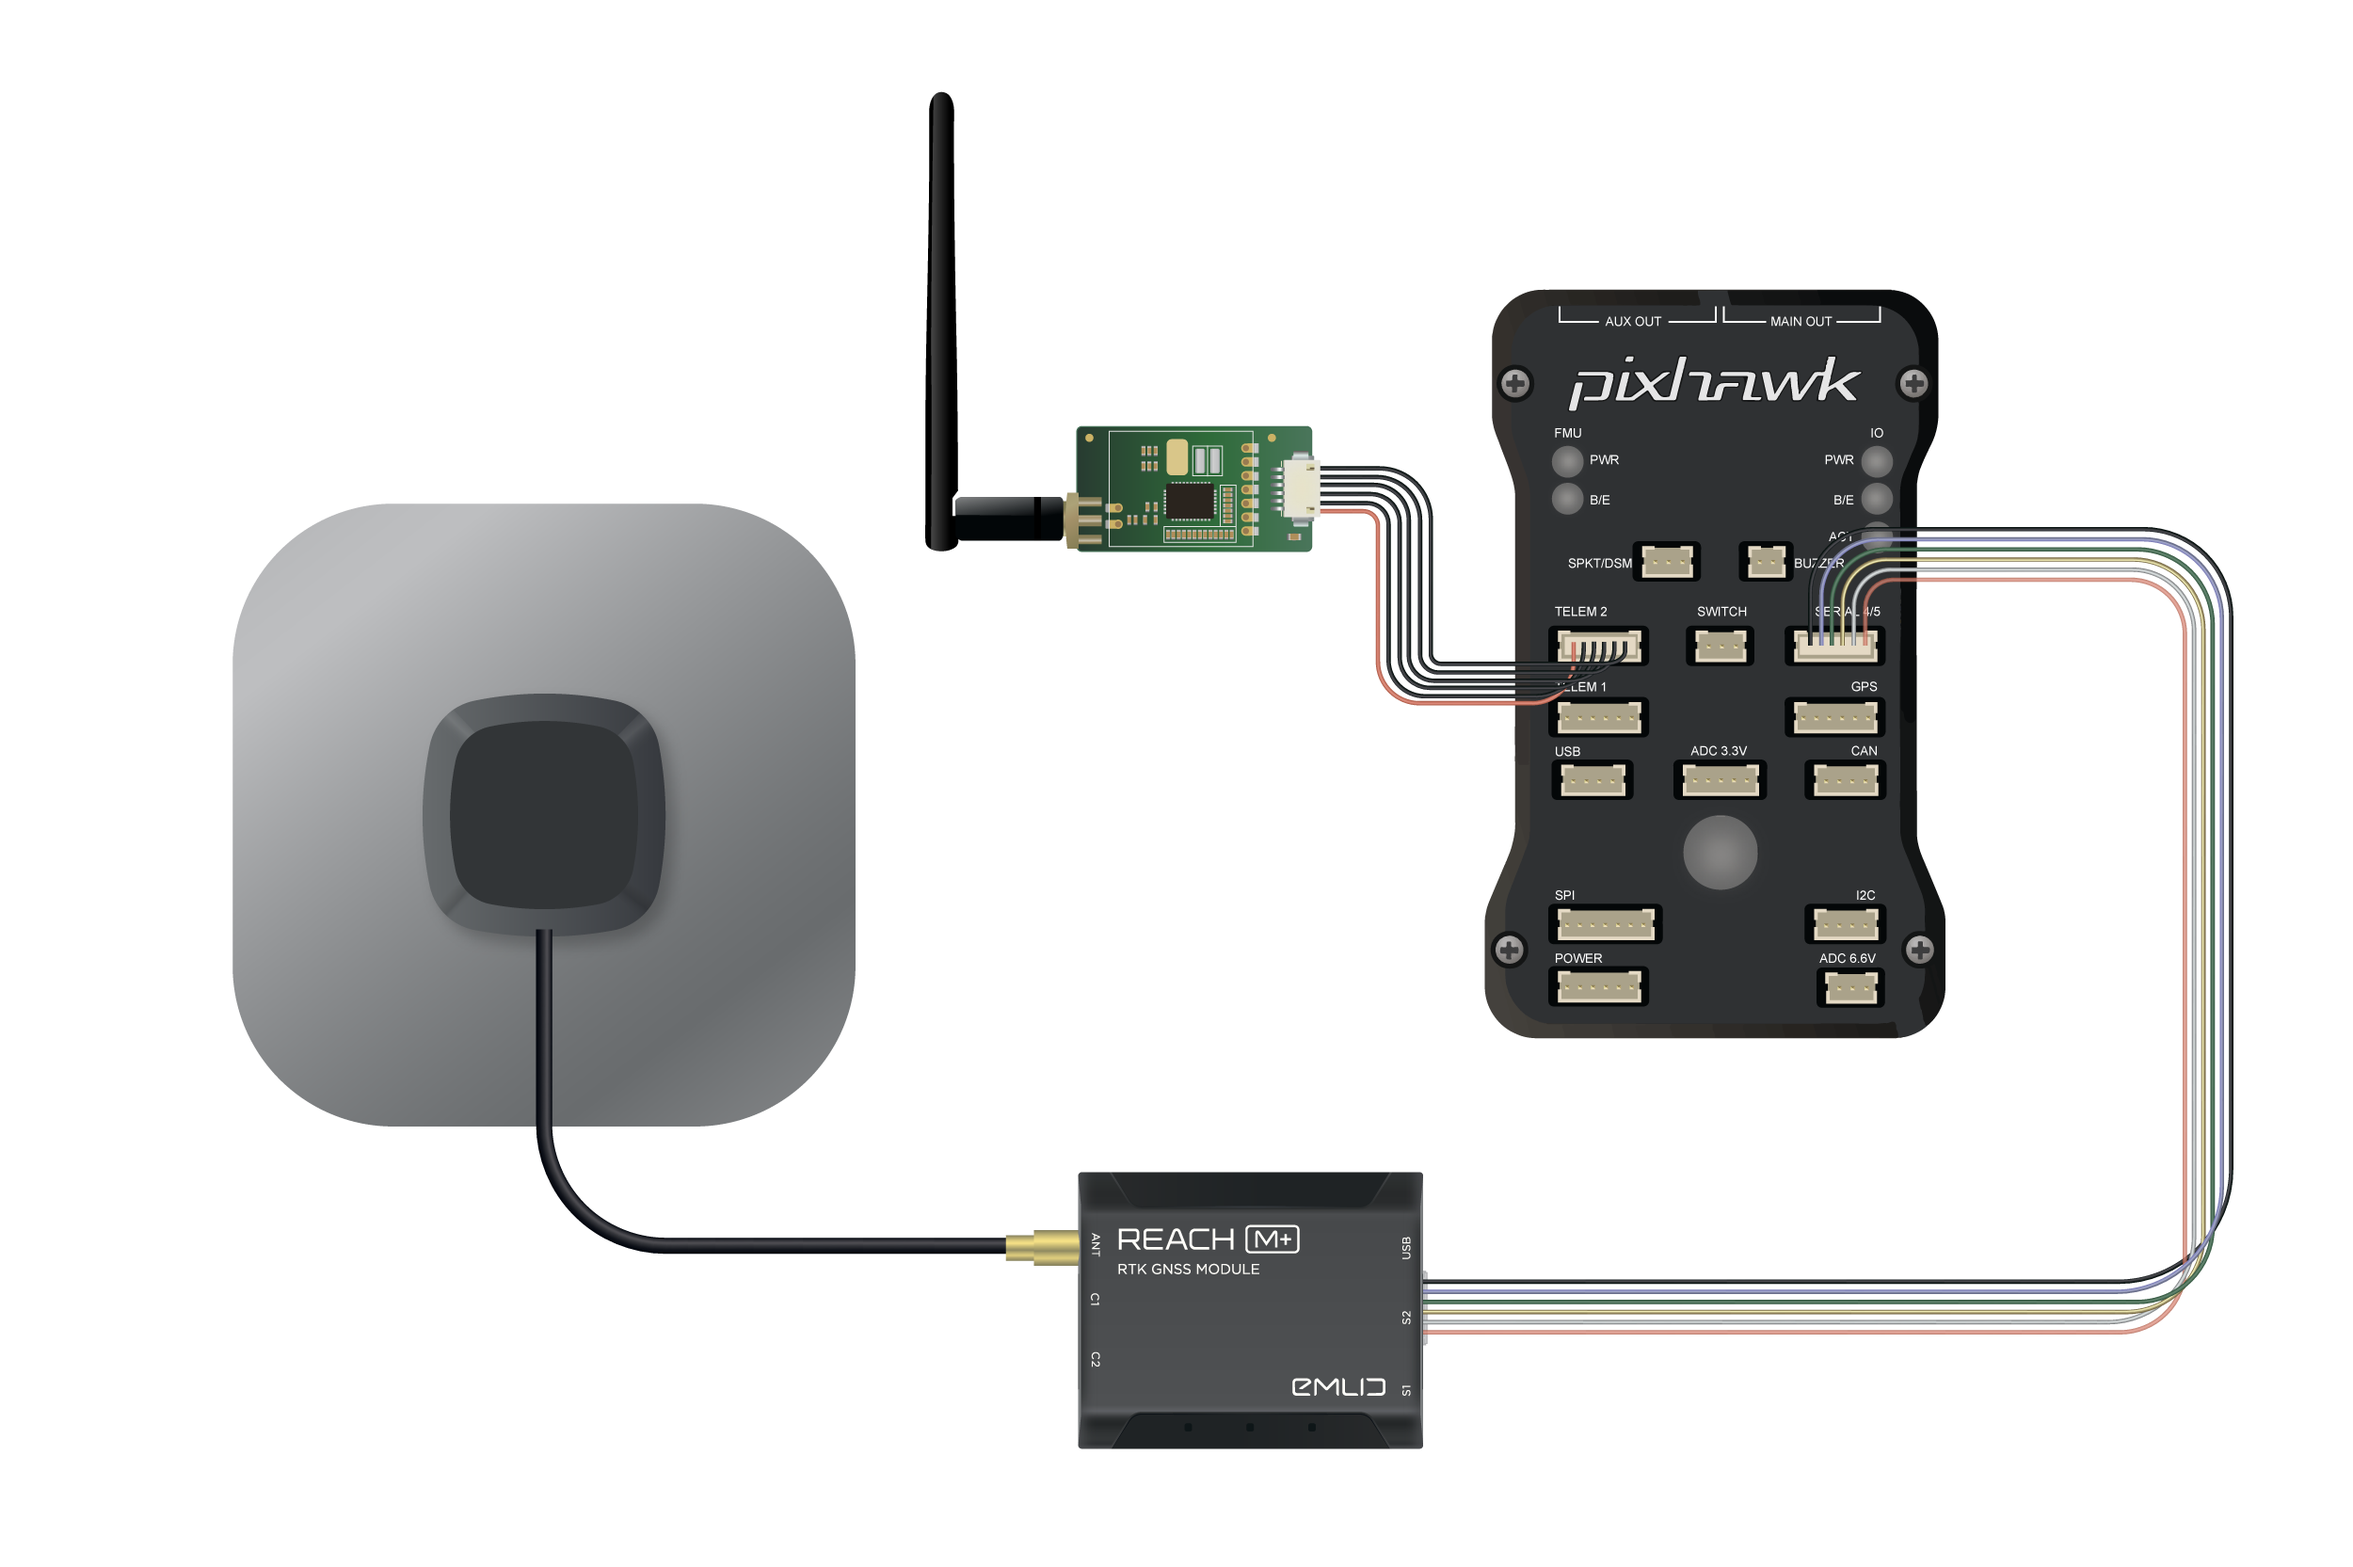
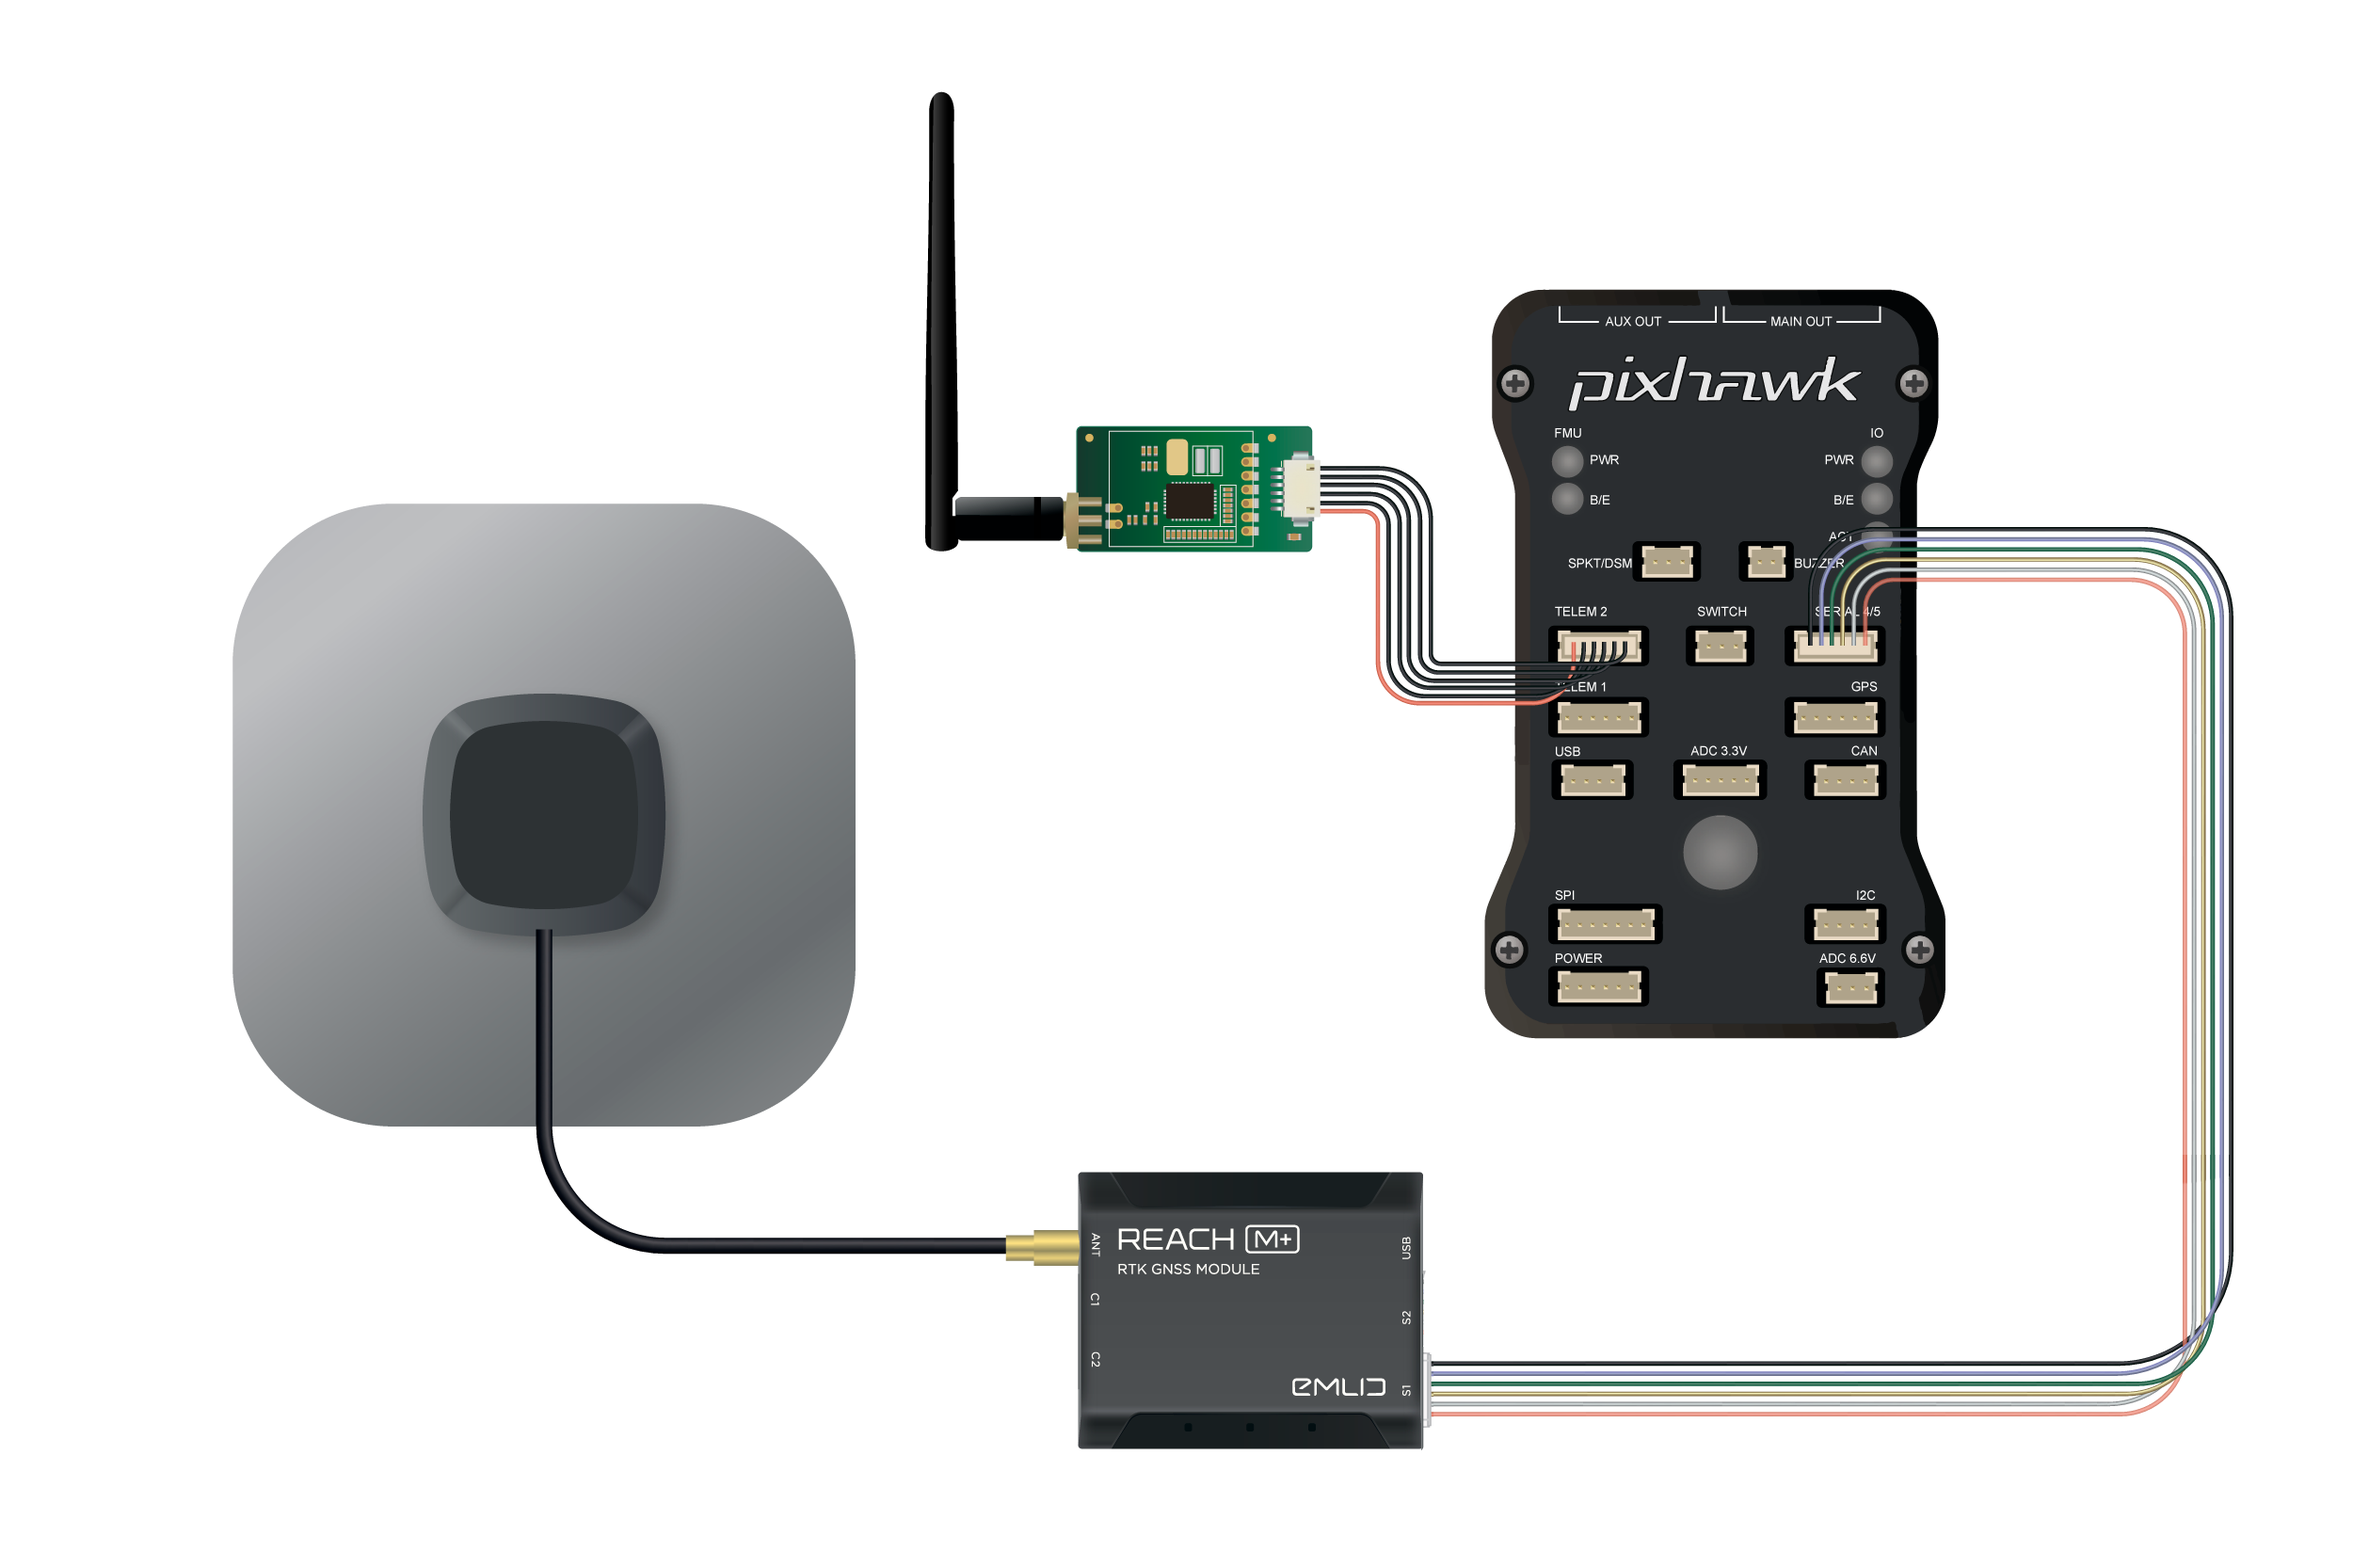
docs: ardupilot-integration.md: fixed images for Reach M+ with ArduPilot integration

Changed region(s): [[0.5928, 0.7495, 0.9672, 0.9057], [0.4368, 0.2498, 0.5616, 0.3748]]

diff --git a/docs/ardupilot-integration.md b/docs/ardupilot-integration.md
@@ -40,13 +40,13 @@ To provide RTK solution to Pixhawk, Reach needs to be connected via a serial por
 
 ## Connecting Reach M+ to Navio
 
-<div style="text-align: center;"><img src="../img/reachm-plus/ardupilot-integration/navio2-reach.png" style="width: 500px;"></div>
+<div style="text-align: center;"><img src="../img/reachm-plus/ardupilot-integration/navio2-reachm.png" style="width: 500px;"></div>
 
 Connect Reach's JST-GH port with Navio's **UART** port.
 
 ## Connecting Reach M+ to Edge
 
-<div style="text-align: center;"><img src="../img/reachm-plus/ardupilot-integration/edge-reach-connection.png" style="width: 500px"></div>
+<div style="text-align: center;"><img src="../img/reachm-plus/ardupilot-integration/edge-reachm.png" style="width: 500px"></div>
 
 Connect Reach's JST-GH port with Edge's SER1-I2C port. Edge and Reach M+ integration guide may be found in Edge docs: [Reach integration](https://docs.emlid.com/edge/tutorials/reach-integration/).
 
